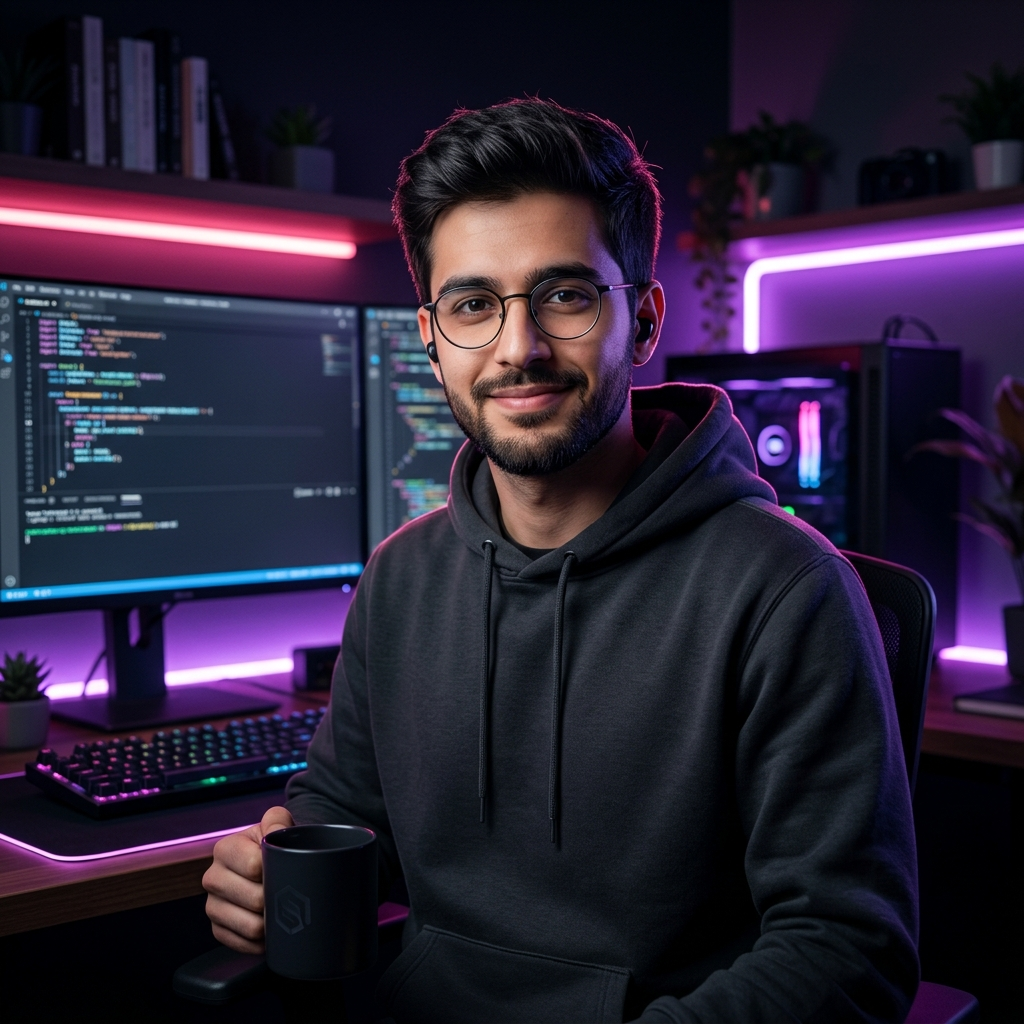
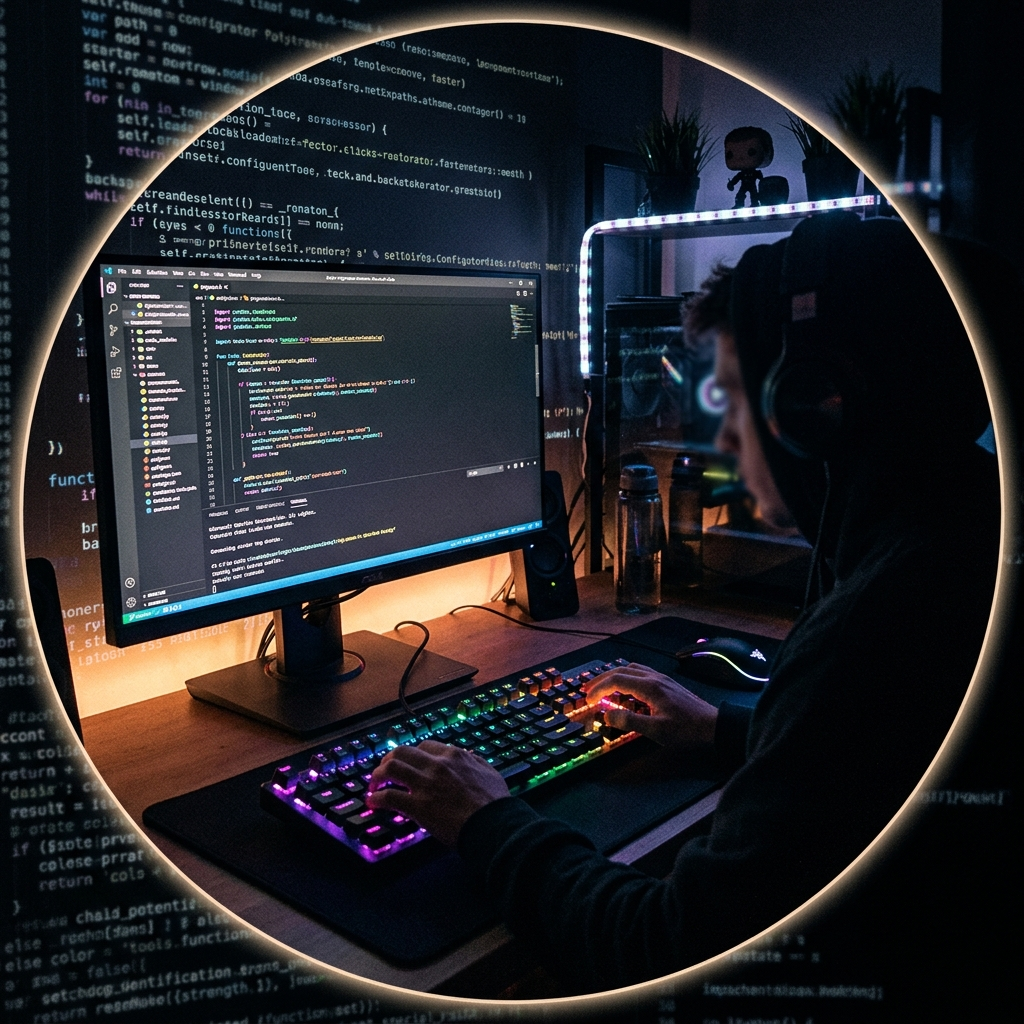
Update Telegram handle to @o_o_b_o_t_s and match Telegram bio

diff --git a/src/components/ContactSection.jsx b/src/components/ContactSection.jsx
@@ -1,5 +1,5 @@
 import React, { useState, useEffect } from 'react';
-import { Send, Mail, MessageSquare, Instagram, CheckCircle2, Sparkles, Copy, ExternalLink } from 'lucide-react';
+import { Send, Mail, MessageSquare, CheckCircle2, Copy, ExternalLink } from 'lucide-react';
 import confetti from 'canvas-confetti';
 
 export default function ContactSection({ prefilledSummary }) {
@@ -9,6 +9,7 @@ export default function ContactSection({ prefilledSummary }) {
     message: ''
   });
   const [submitted, setSubmitted] = useState(false);
+  const [copied, setCopied] = useState(false);
 
   useEffect(() => {
     if (prefilledSummary) {
@@ -38,6 +39,12 @@ export default function ContactSection({ prefilledSummary }) {
     }, 6000);
   };
 
+  const copyUsername = () => {
+    navigator.clipboard.writeText('@o_o_b_o_t_s');
+    setCopied(true);
+    setTimeout(() => setCopied(false), 3000);
+  };
+
   return (
     <section id="contact" className="py-24 relative overflow-hidden">
       <div className="bg-orb bg-orb-1" />
@@ -54,30 +61,30 @@ export default function ContactSection({ prefilledSummary }) {
             Начнём ваш <span className="gradient-text-pink">проект</span>
           </h2>
           <p className="text-slate-400 text-sm sm:text-base max-w-xl mt-3 font-light">
-            Напишите мне напрямую или заполните форму ниже — отвечу на все вопросы и помогу с ТЗ.
+            Напишите мне в Telegram или заполните форму — отвечу на все вопросы и помогу сформировать ТЗ.
           </p>
         </div>
 
         <div className="grid grid-cols-1 lg:grid-cols-12 gap-10">
           
-          {/* Left Column: Direct Magnetic Contact Buttons */}
+          {/* Left Column: Real Telegram Contact Link */}
           <div className="lg:col-span-5 flex flex-col justify-between space-y-6">
             <div className="glass-card p-8 space-y-6">
               <h3 className="text-2xl font-bold font-syne text-white">
-                Прямая связь
+                Прямая связь в Telegram
               </h3>
               <p className="text-slate-300 text-sm font-light leading-relaxed">
                 Самый быстрый способ обсудить задачу — написать в Telegram. 
-                Я лично отвечу на все вопросы по разработке сайтов и ботов.
+                Я отвечу на все вопросы по разработке сайтов и ботов.
               </p>
 
               <div className="space-y-3 pt-2">
-                {/* Telegram Magnetic Button */}
+                {/* Telegram Direct Magnetic Button */}
                 <a
-                  href="https://t.me"
+                  href="https://t.me/o_o_b_o_t_s"
                   target="_blank"
                   rel="noreferrer"
-                  className="magnetic-btn w-full p-4 rounded-2xl bg-gradient-to-r from-pink-500 via-purple-600 to-pink-600 text-white font-bold text-sm shadow-lg shadow-pink-500/30 hover:scale-[1.02] transition-all flex items-center justify-between group"
+                  className="magnetic-btn w-full p-4 rounded-2xl bg-gradient-to-r from-pink-500 via-purple-600 to-pink-600 text-white font-bold text-sm shadow-lg shadow-pink-500/30 hover:scale-[1.02] transition-all flex items-center justify-between group cursor-pointer"
                   data-cursor="TG"
                 >
                   <div className="flex items-center gap-3">
@@ -85,34 +92,36 @@ export default function ContactSection({ prefilledSummary }) {
                       <Send className="w-5 h-5" />
                     </div>
                     <div className="flex flex-col text-left">
-                      <span className="text-xs opacity-80 font-mono">Мессенджер:</span>
-                      <span className="text-sm font-bold">Написать в Telegram</span>
+                      <span className="text-xs opacity-80 font-mono">Telegram Username:</span>
+                      <span className="text-sm font-bold">@o_o_b_o_t_s</span>
                     </div>
                   </div>
                   <ExternalLink className="w-4 h-4 opacity-70 group-hover:opacity-100 group-hover:translate-x-0.5 transition-all" />
                 </a>
 
-                {/* Email Direct Button */}
-                <a
-                  href="mailto:contact@developer.me"
-                  className="w-full p-4 rounded-2xl glass-card border-white/10 hover:border-pink-500/40 text-white font-medium text-sm transition-all flex items-center justify-between group"
-                  data-cursor="EMAIL"
+                {/* Copy Username Button */}
+                <button
+                  onClick={copyUsername}
+                  className="w-full p-4 rounded-2xl glass-card border-white/10 hover:border-pink-500/40 text-white font-medium text-sm transition-all flex items-center justify-between group cursor-pointer"
+                  data-cursor="COPY"
                 >
                   <div className="flex items-center gap-3">
                     <div className="w-9 h-9 rounded-xl bg-purple-500/20 text-purple-400 flex items-center justify-center">
-                      <Mail className="w-5 h-5" />
+                      <Copy className="w-5 h-5" />
                     </div>
                     <div className="flex flex-col text-left">
-                      <span className="text-xs opacity-60 font-mono">Электронная почта:</span>
-                      <span className="text-sm font-mono text-slate-200">Отправить письмо (Email)</span>
+                      <span className="text-xs opacity-60 font-mono">Скопировать юзернейм:</span>
+                      <span className="text-sm font-mono text-slate-200">@o_o_b_o_t_s</span>
                     </div>
                   </div>
-                  <ExternalLink className="w-4 h-4 text-slate-400 group-hover:text-white transition-colors" />
-                </a>
+                  <span className="text-xs font-mono text-pink-400">
+                    {copied ? <span className="text-emerald-400 font-bold">Скопировано!</span> : 'Копировать'}
+                  </span>
+                </button>
               </div>
             </div>
 
-            {/* Honest Availability Box (Removed arbitrary '2' projects limit) */}
+            {/* Availability Box */}
             <div className="glass-card p-6 border-emerald-500/30 bg-emerald-500/5 flex items-center gap-4">
               <div className="w-3 h-3 rounded-full bg-emerald-400 animate-ping shrink-0" />
               <p className="text-xs text-emerald-300 font-medium">
@@ -133,7 +142,7 @@ export default function ContactSection({ prefilledSummary }) {
                     Сообщение отправлено!
                   </h4>
                   <p className="text-slate-300 text-sm max-w-md">
-                    Спасибо за обращение. Я получил ваше сообщение и отвечу вам в ближайшее время.
+                    Спасибо за обращение. Я получил ваше сообщение и отвечу вам в Telegram в ближайшее время.
                   </p>
                 </div>
               ) : (
@@ -150,7 +159,7 @@ export default function ContactSection({ prefilledSummary }) {
                       <input
                         type="text"
                         required
-                        placeholder="Имя"
+                        placeholder="Ваше имя"
                         value={formData.name}
                         onChange={(e) => setFormData({ ...formData, name: e.target.value })}
                         className="w-full px-4 py-3 rounded-xl glass-card bg-black/40 border-white/10 text-white placeholder-slate-500 text-sm focus:outline-none focus:border-pink-500 transition-colors"
@@ -159,12 +168,12 @@ export default function ContactSection({ prefilledSummary }) {
 
                     <div>
                       <label className="text-xs font-mono uppercase text-slate-400 block mb-1.5">
-                        Telegram / Телефон / Email *
+                        Ваш Telegram / Телефон *
                       </label>
                       <input
                         type="text"
                         required
-                        placeholder="@username или ваш контакт"
+                        placeholder="@username или телефон"
                         value={formData.contact}
                         onChange={(e) => setFormData({ ...formData, contact: e.target.value })}
                         className="w-full px-4 py-3 rounded-xl glass-card bg-black/40 border-white/10 text-white placeholder-slate-500 text-sm focus:outline-none focus:border-pink-500 transition-colors"

diff --git a/src/components/AboutSection.jsx b/src/components/AboutSection.jsx
@@ -1,5 +1,5 @@
 import React, { useState } from 'react';
-import { User, CheckCircle, Code2 } from 'lucide-react';
+import { User, CheckCircle } from 'lucide-react';
 
 export default function AboutSection() {
   const [activeTab, setActiveTab] = useState('whoami');
@@ -7,10 +7,9 @@ export default function AboutSection() {
   const terminalData = {
     whoami: `// Developer Profile
 const developer = {
-  role: "Full-Stack Web & Telegram Bot Developer",
-  specialization: "Сайты, Лендинги & Telegram Mini Apps",
-  experience: "Практическая разработка с фокусом на UX & 3D",
-  status: "Открыт к новым заказам"
+  bio: "Web-разработчик | Сайты и Telegram-боты для бизнеса",
+  specialization: "Разработка высокоскоростных веб-сайтов & Telegram-ботов",
+  status: "Открыт к новым проектам"
 };`,
     tech_stack: `// Technology Stack Breakdown
 const stack = {
@@ -44,24 +43,22 @@ const approach = [
 
         <div className="grid grid-cols-1 lg:grid-cols-12 gap-12 items-center">
           
-          {/* Left Column: Tech Graphic Avatar & Bio */}
+          {/* Left Column: Telegram Profile Avatar & Bio */}
           <div className="lg:col-span-5 flex flex-col items-center lg:items-start text-center lg:text-left space-y-6">
             <div className="relative group">
               <div className="absolute -inset-1 bg-gradient-to-r from-pink-500 to-purple-600 rounded-3xl blur-xl opacity-50 group-hover:opacity-80 transition duration-500" />
-              <div className="relative w-64 h-64 sm:w-72 sm:h-72 rounded-3xl overflow-hidden glass-card border-white/20 shadow-2xl flex flex-col items-center justify-center p-6 bg-slate-950/80">
-                <div className="w-24 h-24 rounded-2xl bg-gradient-to-tr from-pink-500 to-purple-600 flex items-center justify-center text-white shadow-xl shadow-pink-500/30 mb-4 group-hover:scale-110 transition-transform duration-300">
-                  <Code2 className="w-12 h-12" />
-                </div>
-                <span className="font-syne font-extrabold text-xl text-white tracking-wide">
-                  Dev<span className="text-pink-500">.Studio</span>
-                </span>
-                <span className="text-xs text-slate-400 font-mono mt-1">Web & Telegram Solutions</span>
+              <div className="relative w-64 h-64 sm:w-72 sm:h-72 rounded-3xl overflow-hidden glass-card border-white/20 shadow-2xl">
+                <img
+                  src="/assets/avatar.png"
+                  alt="Telegram Developer Profile Avatar"
+                  className="w-full h-full object-cover group-hover:scale-105 transition-transform duration-500"
+                />
               </div>
             </div>
 
             <div className="space-y-4">
               <h3 className="text-xl sm:text-2xl font-bold font-syne text-white leading-snug">
-                Разрабатываю решения, которые работают и приносят прибыль
+                Web-разработчик | Сайты и Telegram-боты для бизнеса
               </h3>
               <p className="text-slate-300 text-sm sm:text-base leading-relaxed font-light">
                 Специализируюсь на создании удобных, быстрых сайтов и автоматизированных Telegram-ботов. 
